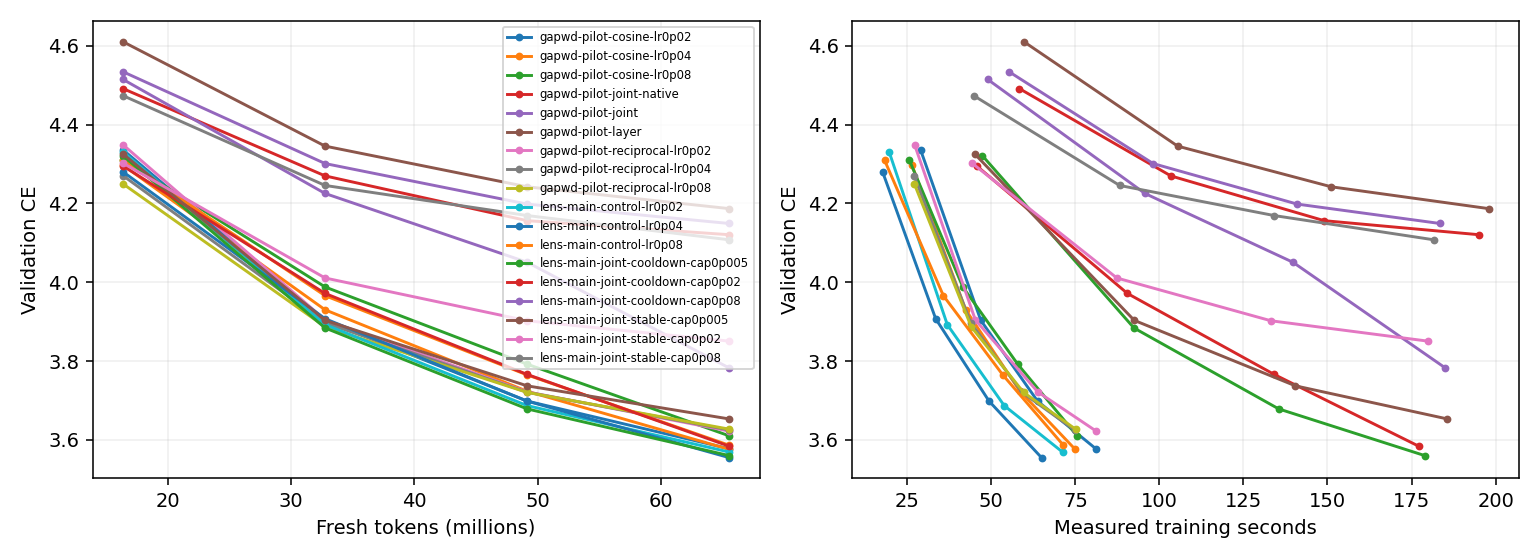
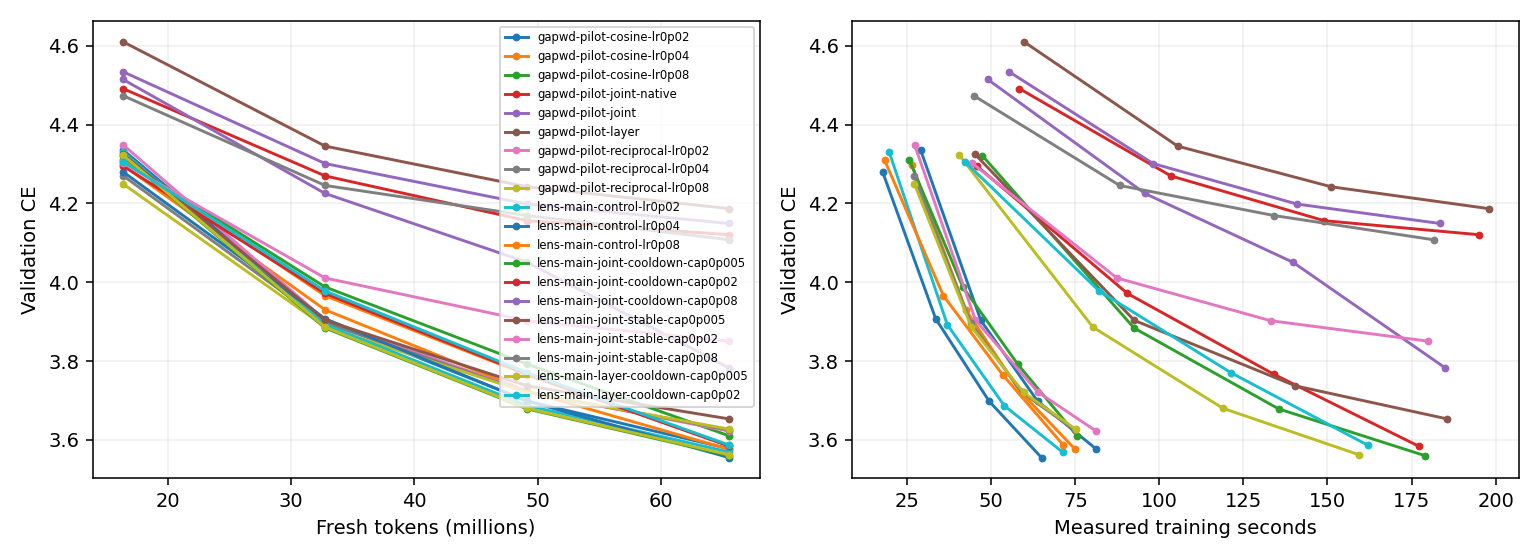
Update live Muon experiment results

diff --git a/research/unnormalized_muon/RESULTS.md b/research/unnormalized_muon/RESULTS.md
@@ -76,6 +76,8 @@ One B300 per job. CE is token cross-entropy (nats); lower is better. Rows with d
 | um-lens-main-joint-stable-cap0p005 | Clean GapWD joint uniform v2 c-in-Q quadratic cap0.005/stable fixed_lambda=0.18375 WD:standard(0) | 2000 | 0 | 0.04 | 3.652983 | 1.107410 | — | 256.79 |
 | um-lens-main-joint-stable-cap0p02 | Clean GapWD joint uniform v2 c-in-Q quadratic cap0.02/stable fixed_lambda=0.18375 WD:standard(0) | 2000 | 0 | 0.04 | 3.850446 | 1.167314 | — | 249.81 |
 | um-lens-main-joint-stable-cap0p08 | Clean GapWD joint uniform v2 c-in-Q quadratic cap0.08/stable fixed_lambda=0.18375 WD:standard(0) | 2000 | 0 | 0.04 | 4.107661 | 1.245115 | — | 246.74 |
+| um-lens-main-layer-cooldown-cap0p005 | Clean GapWD layer uniform v2 c-in-Q armijo cap0.005/cooldown fixed_lambda=0.18375 WD:standard(0) | 2000 | 0 | 0.04 | 3.561886 | 1.079815 | — | 227.76 |
+| um-lens-main-layer-cooldown-cap0p02 | Clean GapWD layer uniform v2 c-in-Q armijo cap0.02/cooldown fixed_lambda=0.18375 WD:standard(0) | 2000 | 0 | 0.04 | 3.586478 | 1.087264 | — | 230.84 |
 | um-screen-00-0-native-lr0p005 | Native cooldown | 2000 | 0 | 0.005 | 3.734536 | 1.132046 | — | 145.49 |
 | um-screen-00-1-scaled-lr0p0002 | Unnormalized cooldown | 2000 | 0 | 0.0002 | 4.818060 | 1.460343 | — | 153.42 |
 | um-screen-00-2-constant-lr0p0002 | Unnormalized constant | 2000 | 0 | 0.0002 | 4.581043 | 1.388601 | — | 151.98 |
@@ -115,7 +117,7 @@ One B300 per job. CE is token cross-entropy (nats); lower is better. Rows with d
 
 Review of um-fw-diagnostic-001: Compiled training f0 compared against functional candidate losses; vanishing-step mismatch2-4e-5 exceeded tolerance, leading to curvature1e186 and45 skipped steps. Replaced by paired functional reference and candidates; retain all645 measured forwards and GPUcost.
 
-Conservative charged/reserved total: 9.3811 / 30 B300 GPU-hours. Includes prior smoke/failed attempts and current maximum-duration reservations. Six-slot central queue; one B300 per run.
+Conservative charged/reserved total: 9.5233 / 30 B300 GPU-hours. Includes prior smoke/failed attempts and current maximum-duration reservations. Six-slot central queue; one B300 per run.
 
 CLEAN geometry disables row equilibration and NorMuon. Original clean runs use zero matrix decay; new WD runs explicitly label standard or cautious decay and their CLI coefficient. Same five Polar Express steps and Frobenius correction; scale by the per-matrix nonnegative FP32 inner product of the native Nesterov input with the NS/Frobenius direction. Shape scaling occurs once outside the scalar. Legacy rows retain production extras and must be compared separately. Constant schedule changes only matrix LR; auxiliary schedules and momentum remain matched.
 

diff --git a/research/unnormalized_muon/FW_LENS_RESULTS.md b/research/unnormalized_muon/FW_LENS_RESULTS.md
@@ -26,6 +26,8 @@ Token-based schedule curves are descriptive. Independently scheduled equal-time 
 | um-lens-main-joint-stable-cap0p005 | joint-stable | 2000 updates | 0 | 3.652983 | — | 185.804 | 5997 | 33.556 | 256.79 |
 | um-lens-main-joint-stable-cap0p02 | joint-stable | 2000 updates | 0 | 3.850446 | — | 180.007 | 6001 | 34.063 | 249.81 |
 | um-lens-main-joint-stable-cap0p08 | joint-stable | 2000 updates | 0 | 4.107661 | — | 181.760 | 5999 | 31.234 | 246.74 |
+| um-lens-main-layer-cooldown-cap0p005 | layer-cooldown | 2000 updates | 0 | 3.561886 | — | 159.589 | 4000 | 32.431 | 227.76 |
+| um-lens-main-layer-cooldown-cap0p02 | layer-cooldown | 2000 updates | 0 | 3.586478 | — | 162.107 | 4006 | 32.671 | 230.84 |
 
 ## Adaptive diagnostics and contraction
 
@@ -45,5 +47,7 @@ Contraction is the actual coefficient product_t(1-lambda*eta_l,t), represented i
 | um-lens-main-joint-stable-cap0p005 | 1997/2000 | 0 | 0.005 | 0.00091875 | 0.02 | 2 | -1.817 to -1.817 | 0.305381 |
 | um-lens-main-joint-stable-cap0p02 | 2000/2000 | 0 | 0.02 | 0.003675 | 0.01 | 2 | -7.221 to -7.221 | 0.455097 |
 | um-lens-main-joint-stable-cap0p08 | 2000/2000 | 0 | 0.057202 | 0.010511 | 0.0025 | 2 | -20.46 to -20.46 | 0.780575 |
+| um-lens-main-layer-cooldown-cap0p005 | 2000/2000 | 0 | 0.0037906 | 0.00069652 | 1e-16 | 1 | -1.253 to -1.225 | 0.330668 |
+| um-lens-main-layer-cooldown-cap0p02 | 2000/2000 | 0 | 0.015118 | 0.002778 | 1e-16 | 1 | -5.01 to -4.851 | 0.420678 |
 
 Curvature values in Armijo variants parameterize proposals; their acceptance is NOT a certificate of the quadratic upper model. Final spectral ratios are lambda*||W_l||op/c_l; native approximate NS output is not certified to have unit spectral norm. Initial/final iterate feasibility alone does not certify oracle accuracy. Cold two-second clock checks intentionally permit one-update overshoot; do not use them as quality endpoints.

diff --git a/research/unnormalized_muon/DETAILED_EVAL.md b/research/unnormalized_muon/DETAILED_EVAL.md
@@ -299,3 +299,15 @@ um-lens-main-joint-stable-cap0p08: accepted 2000/2000; skipped nonpositive block
 
 Timing seconds: direction=61.373, reference=14.545, candidates=28.102, auxiliary=1.799.
 
+| um-lens-main-layer-cooldown-cap0p005 | layer native | 0.1837499 | 2000 | 3.561886 | 4000 | 227.76 |
+
+um-lens-main-layer-cooldown-cap0p005: accepted 2000/2000; skipped nonpositive blocks 248; median actual eta 0.00379058; median gamma 0.000696518; median L 1e-16; median trials 1; max measured spectral ratio lambda*||W||op=0.330668. Native approximate NS can violate the ideal unit-oracle premise; this is recorded, not hidden.
+
+Timing seconds: direction=54.259, reference=14.516, candidates=14.228, auxiliary=1.866.
+
+| um-lens-main-layer-cooldown-cap0p02 | layer native | 0.1837499 | 2000 | 3.586478 | 4006 | 230.84 |
+
+um-lens-main-layer-cooldown-cap0p02: accepted 2000/2000; skipped nonpositive blocks 107; median actual eta 0.0151185; median gamma 0.00277802; median L 1e-16; median trials 1; max measured spectral ratio lambda*||W||op=0.420678. Native approximate NS can violate the ideal unit-oracle premise; this is recorded, not hidden.
+
+Timing seconds: direction=55.305, reference=14.700, candidates=14.387, auxiliary=1.893.
+
